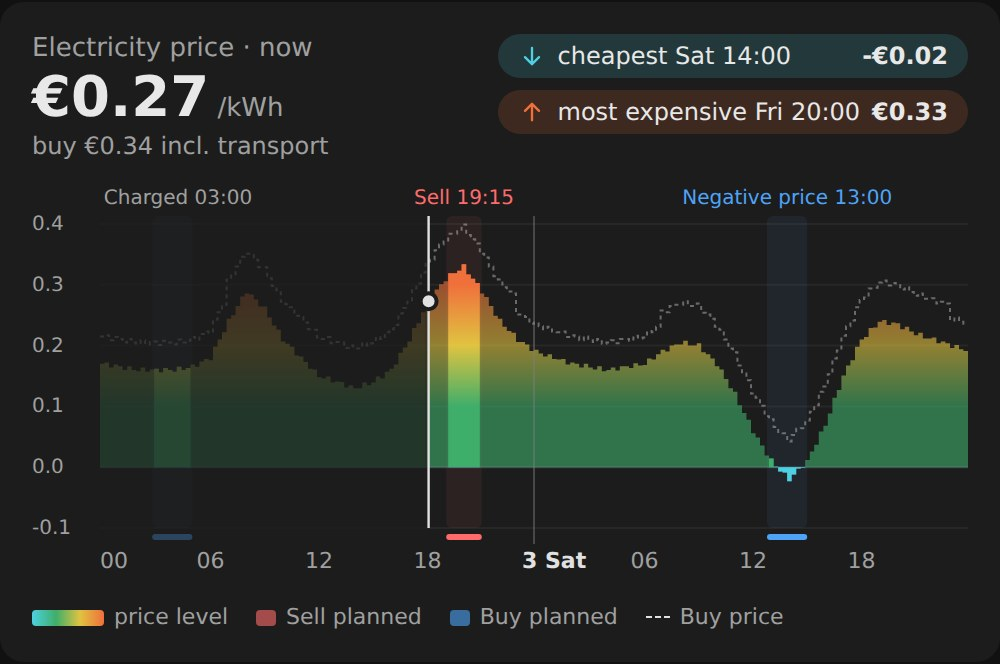
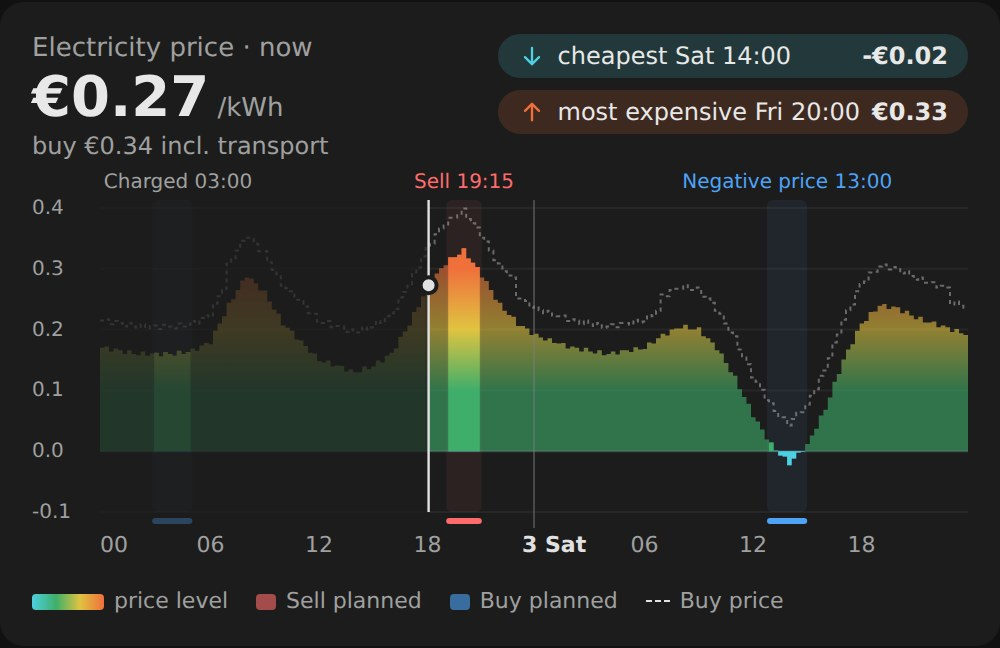
0.5.4: price card - axis from 0 with positive prices, buy line only with a transport tariff, compact top
Claude-Session: https://claude.ai/code/session_014r7iW87VUaLwA2BPBnvNAd

diff --git a/custom_components/ess_manager/frontend/ess-manager-cards.js b/custom_components/ess_manager/frontend/ess-manager-cards.js
@@ -1025,18 +1025,29 @@ class EssManagerPriceCard extends EssChartCard {
     const T1 = T0 + n * unitMs;
     const cur = clamp(Math.floor((now - T0) / unitMs), 0, n - 1);
     const W = width;
+    const colors = { buy: opt.buy_color, negative: opt.buy_color, sell: opt.sell_color, spike: opt.sell_color };
+    const upcoming = planWindows(attrs).filter((w) => w.stop > T0 && w.start < T1);
+    const ran = pastWindows(this._hist && this._hist.action, now)
+      .filter((w) => w.stop > T0 && !upcoming.some((u) => u.side === w.side && u.start < w.stop && w.start < u.stop));
+    const windows = ran.concat(upcoming).sort((a, b) => a.start - b.start);
     const X0 = 34;
-    const top = 18;
-    const H = Math.max(clamp(Number(opt.height) || 170, 100, 600) - top, 60);
+    // room above the plot for the plan labels - only when there are plans
+    const top = windows.length ? 18 : 8;
+    const H = Math.max(clamp(Number(opt.height) || 170, 100, 600) - 18, 60);
     const bottom = top + H;
     const valid = prices.filter((v) => v !== null);
-    const lineVals = opt.show_buy_line !== false ? buy.filter((v) => v !== null) : [];
+    // The buy price line only when it differs from the price (a transport
+    // tariff is set); without one it would just trace the top of the bars.
+    const showBuyLine = opt.show_buy_line !== false && buy.some((v, i) => v !== null && prices[i] !== null && Math.abs(v - prices[i]) > 1e-6);
+    const lineVals = showBuyLine ? buy.filter((v) => v !== null) : [];
     let lo = Math.min(0, ...valid, ...lineVals);
     let hi = Math.max(...valid, ...lineVals);
     const steps = [0.01, 0.02, 0.05, 0.1, 0.2, 0.25, 0.5, 1, 2, 5];
     const step = steps.find((s) => (hi - lo) / s <= 5) || 10;
-    lo = Math.floor(lo / step - 1e-9) * step;
-    hi = Math.ceil(hi / step + 1e-9) * step;
+    // round outwards to whole steps; the tiny margin absorbs float noise
+    // (0 stays 0, a top of exactly 0.25 stays 0.25)
+    lo = Math.floor(lo / step + 1e-9) * step;
+    hi = Math.ceil(hi / step - 1e-9) * step;
     if (hi <= lo) hi = lo + step;
     const bw = (W - X0) / n;
     const x = (t) => X0 + ((t - T0) / (T1 - T0)) * (W - X0);
@@ -1063,11 +1074,6 @@ class EssManagerPriceCard extends EssChartCard {
       .join("");
 
     // the plans: upcoming / running (card_plans) and what ran today
-    const colors = { buy: opt.buy_color, negative: opt.buy_color, sell: opt.sell_color, spike: opt.sell_color };
-    const upcoming = planWindows(attrs).filter((w) => w.stop > T0 && w.start < T1);
-    const ran = pastWindows(this._hist && this._hist.action, now)
-      .filter((w) => w.stop > T0 && !upcoming.some((u) => u.side === w.side && u.start < w.stop && w.start < u.stop));
-    const windows = ran.concat(upcoming).sort((a, b) => a.start - b.start);
     const inWindow = (i) => {
       const t = T0 + i * unitMs;
       return windows.some((w) => t + unitMs > w.start && t < w.stop);
@@ -1100,7 +1106,7 @@ class EssManagerPriceCard extends EssChartCard {
     const bg = "var(--ha-card-background, var(--card-background-color, #1c1c1c))";
     const xNow = x(now);
     let buyLine = "";
-    if (opt.show_buy_line !== false) {
+    if (showBuyLine) {
       const d = buy.map((v, i) => (v === null ? "" : `${i === 0 || buy[i - 1] === null ? "M" : "L"}${r1(xi(i))} ${r1(y(v))}H${r1(xi(i + 1))}`)).join("");
       buyLine = `<path d="${d}" fill="none" style="stroke:var(--primary-text-color, #e8e8e8)" stroke-opacity="0.4" stroke-width="1" stroke-dasharray="2 2"/>`;
     }
@@ -1154,7 +1160,7 @@ class EssManagerPriceCard extends EssChartCard {
       <span><i style="width:36px;background:linear-gradient(90deg, ${opt.negative_color}, ${opt.cheap_color}, ${opt.mid_color}, ${opt.high_color})"></i>${esc(this._t("legend_level"))}</span>
       <span><i style="background:${tint(opt.sell_color, 0.6)}"></i>${esc(this._t("legend_sell"))}</span>
       <span><i style="background:${tint(opt.buy_color, 0.6)}"></i>${esc(this._t("legend_buy"))}</span>
-      ${opt.show_buy_line !== false ? `<span><i style="width:12px;height:0;border-top:1px dashed var(--primary-text-color, #e8e8e8);border-radius:0"></i>${esc(this._t("legend_buy_line"))}</span>` : ""}
+      ${showBuyLine ? `<span><i style="width:12px;height:0;border-top:1px dashed var(--primary-text-color, #e8e8e8);border-radius:0"></i>${esc(this._t("legend_buy_line"))}</span>` : ""}
     </div>`;
 
     this.shadowRoot.innerHTML = `<style>${BASE_CSS}
@@ -1165,6 +1171,7 @@ class EssManagerPriceCard extends EssChartCard {
       .xp { display: flex; align-items: center; gap: 6px; font-size: 12px; padding: 4px 10px; border-radius: 999px; white-space: nowrap; }
       .xl { flex-grow: 1; overflow: hidden; text-overflow: ellipsis; }
       @container (max-width: 420px) { .top { flex-direction: column; align-items: stretch; } }
+      .top + div { margin-top: -8px; }
     </style>
     <ha-card>
       <div class="top">

diff --git a/tools/cards_template.js b/tools/cards_template.js
@@ -1025,18 +1025,29 @@ class EssManagerPriceCard extends EssChartCard {
     const T1 = T0 + n * unitMs;
     const cur = clamp(Math.floor((now - T0) / unitMs), 0, n - 1);
     const W = width;
+    const colors = { buy: opt.buy_color, negative: opt.buy_color, sell: opt.sell_color, spike: opt.sell_color };
+    const upcoming = planWindows(attrs).filter((w) => w.stop > T0 && w.start < T1);
+    const ran = pastWindows(this._hist && this._hist.action, now)
+      .filter((w) => w.stop > T0 && !upcoming.some((u) => u.side === w.side && u.start < w.stop && w.start < u.stop));
+    const windows = ran.concat(upcoming).sort((a, b) => a.start - b.start);
     const X0 = 34;
-    const top = 18;
-    const H = Math.max(clamp(Number(opt.height) || 170, 100, 600) - top, 60);
+    // room above the plot for the plan labels - only when there are plans
+    const top = windows.length ? 18 : 8;
+    const H = Math.max(clamp(Number(opt.height) || 170, 100, 600) - 18, 60);
     const bottom = top + H;
     const valid = prices.filter((v) => v !== null);
-    const lineVals = opt.show_buy_line !== false ? buy.filter((v) => v !== null) : [];
+    // The buy price line only when it differs from the price (a transport
+    // tariff is set); without one it would just trace the top of the bars.
+    const showBuyLine = opt.show_buy_line !== false && buy.some((v, i) => v !== null && prices[i] !== null && Math.abs(v - prices[i]) > 1e-6);
+    const lineVals = showBuyLine ? buy.filter((v) => v !== null) : [];
     let lo = Math.min(0, ...valid, ...lineVals);
     let hi = Math.max(...valid, ...lineVals);
     const steps = [0.01, 0.02, 0.05, 0.1, 0.2, 0.25, 0.5, 1, 2, 5];
     const step = steps.find((s) => (hi - lo) / s <= 5) || 10;
-    lo = Math.floor(lo / step - 1e-9) * step;
-    hi = Math.ceil(hi / step + 1e-9) * step;
+    // round outwards to whole steps; the tiny margin absorbs float noise
+    // (0 stays 0, a top of exactly 0.25 stays 0.25)
+    lo = Math.floor(lo / step + 1e-9) * step;
+    hi = Math.ceil(hi / step - 1e-9) * step;
     if (hi <= lo) hi = lo + step;
     const bw = (W - X0) / n;
     const x = (t) => X0 + ((t - T0) / (T1 - T0)) * (W - X0);
@@ -1063,11 +1074,6 @@ class EssManagerPriceCard extends EssChartCard {
       .join("");
 
     // the plans: upcoming / running (card_plans) and what ran today
-    const colors = { buy: opt.buy_color, negative: opt.buy_color, sell: opt.sell_color, spike: opt.sell_color };
-    const upcoming = planWindows(attrs).filter((w) => w.stop > T0 && w.start < T1);
-    const ran = pastWindows(this._hist && this._hist.action, now)
-      .filter((w) => w.stop > T0 && !upcoming.some((u) => u.side === w.side && u.start < w.stop && w.start < u.stop));
-    const windows = ran.concat(upcoming).sort((a, b) => a.start - b.start);
     const inWindow = (i) => {
       const t = T0 + i * unitMs;
       return windows.some((w) => t + unitMs > w.start && t < w.stop);
@@ -1100,7 +1106,7 @@ class EssManagerPriceCard extends EssChartCard {
     const bg = "var(--ha-card-background, var(--card-background-color, #1c1c1c))";
     const xNow = x(now);
     let buyLine = "";
-    if (opt.show_buy_line !== false) {
+    if (showBuyLine) {
       const d = buy.map((v, i) => (v === null ? "" : `${i === 0 || buy[i - 1] === null ? "M" : "L"}${r1(xi(i))} ${r1(y(v))}H${r1(xi(i + 1))}`)).join("");
       buyLine = `<path d="${d}" fill="none" style="stroke:var(--primary-text-color, #e8e8e8)" stroke-opacity="0.4" stroke-width="1" stroke-dasharray="2 2"/>`;
     }
@@ -1154,7 +1160,7 @@ class EssManagerPriceCard extends EssChartCard {
       <span><i style="width:36px;background:linear-gradient(90deg, ${opt.negative_color}, ${opt.cheap_color}, ${opt.mid_color}, ${opt.high_color})"></i>${esc(this._t("legend_level"))}</span>
       <span><i style="background:${tint(opt.sell_color, 0.6)}"></i>${esc(this._t("legend_sell"))}</span>
       <span><i style="background:${tint(opt.buy_color, 0.6)}"></i>${esc(this._t("legend_buy"))}</span>
-      ${opt.show_buy_line !== false ? `<span><i style="width:12px;height:0;border-top:1px dashed var(--primary-text-color, #e8e8e8);border-radius:0"></i>${esc(this._t("legend_buy_line"))}</span>` : ""}
+      ${showBuyLine ? `<span><i style="width:12px;height:0;border-top:1px dashed var(--primary-text-color, #e8e8e8);border-radius:0"></i>${esc(this._t("legend_buy_line"))}</span>` : ""}
     </div>`;
 
     this.shadowRoot.innerHTML = `<style>${BASE_CSS}
@@ -1165,6 +1171,7 @@ class EssManagerPriceCard extends EssChartCard {
       .xp { display: flex; align-items: center; gap: 6px; font-size: 12px; padding: 4px 10px; border-radius: 999px; white-space: nowrap; }
       .xl { flex-grow: 1; overflow: hidden; text-overflow: ellipsis; }
       @container (max-width: 420px) { .top { flex-direction: column; align-items: stretch; } }
+      .top + div { margin-top: -8px; }
     </style>
     <ha-card>
       <div class="top">

diff --git a/README.md b/README.md
@@ -619,7 +619,8 @@ colour, with a light column and a line under it in the plan's colour and
 a label ("Sell 19:15", "Negative price 13:00"); the other bars are dimmed.
 Everything before "now" sits under a darker layer; the plans that ran
 today (from the Battery action history - "Charged 03:00", "Sold 19:15")
-still show in it. The dotted line is the buy price (with transport). Top:
+still show in it. The dotted line is the buy price (with transport - only
+when a transport tariff is set, otherwise it equals the price). Top:
 the price now, the buy price, and the cheapest and most expensive moment
 still to come. Tap (or hover) for the price of a quarter.
 
@@ -628,7 +629,7 @@ still to come. Tap (or hover) for the price of a quarter.
 | `title` | Electricity price | the card's title |
 | `height` | `170` | chart height in px |
 | `show_extremes` | `true` | cheapest / most expensive at the top |
-| `show_buy_line` | `true` | the dotted buy price line |
+| `show_buy_line` | `true` | the dotted buy price line (only drawn when a transport tariff makes it differ from the price) |
 | `legend` | `true` | the legend under the chart |
 | `cheap_color` / `mid_color` / `high_color` / `negative_color` | green / yellow / orange / turquoise | the price level colours |
 | `sell_color` / `buy_color` | red / blue | the colours of a planned sale / charge |

diff --git a/CHANGELOG.md b/CHANGELOG.md
@@ -14,6 +14,16 @@ a plain git tag on its own isn't enough for HACS to notice.
   and the chart, and "now" sits beside the now line in the chart's top
   corner instead of above the chart. The chart itself keeps its height; a
   plan label steps around the "now" label.
+- Prices card more compact at the top: less space between the header and
+  the chart, and the row for the plan labels above the chart only when
+  there are plans.
+- Prices card: the dotted buy price line (and its legend item) only shows
+  when it differs from the price - with the transport tariff at 0 it just
+  traced the top of the bars.
+
+### Fixed
+- Prices card: with only positive prices the axis started at -0.05
+  instead of 0 (and a top exactly on a step got an empty step above it).
 
 ## [0.5.3] - 2026-10-03
 
